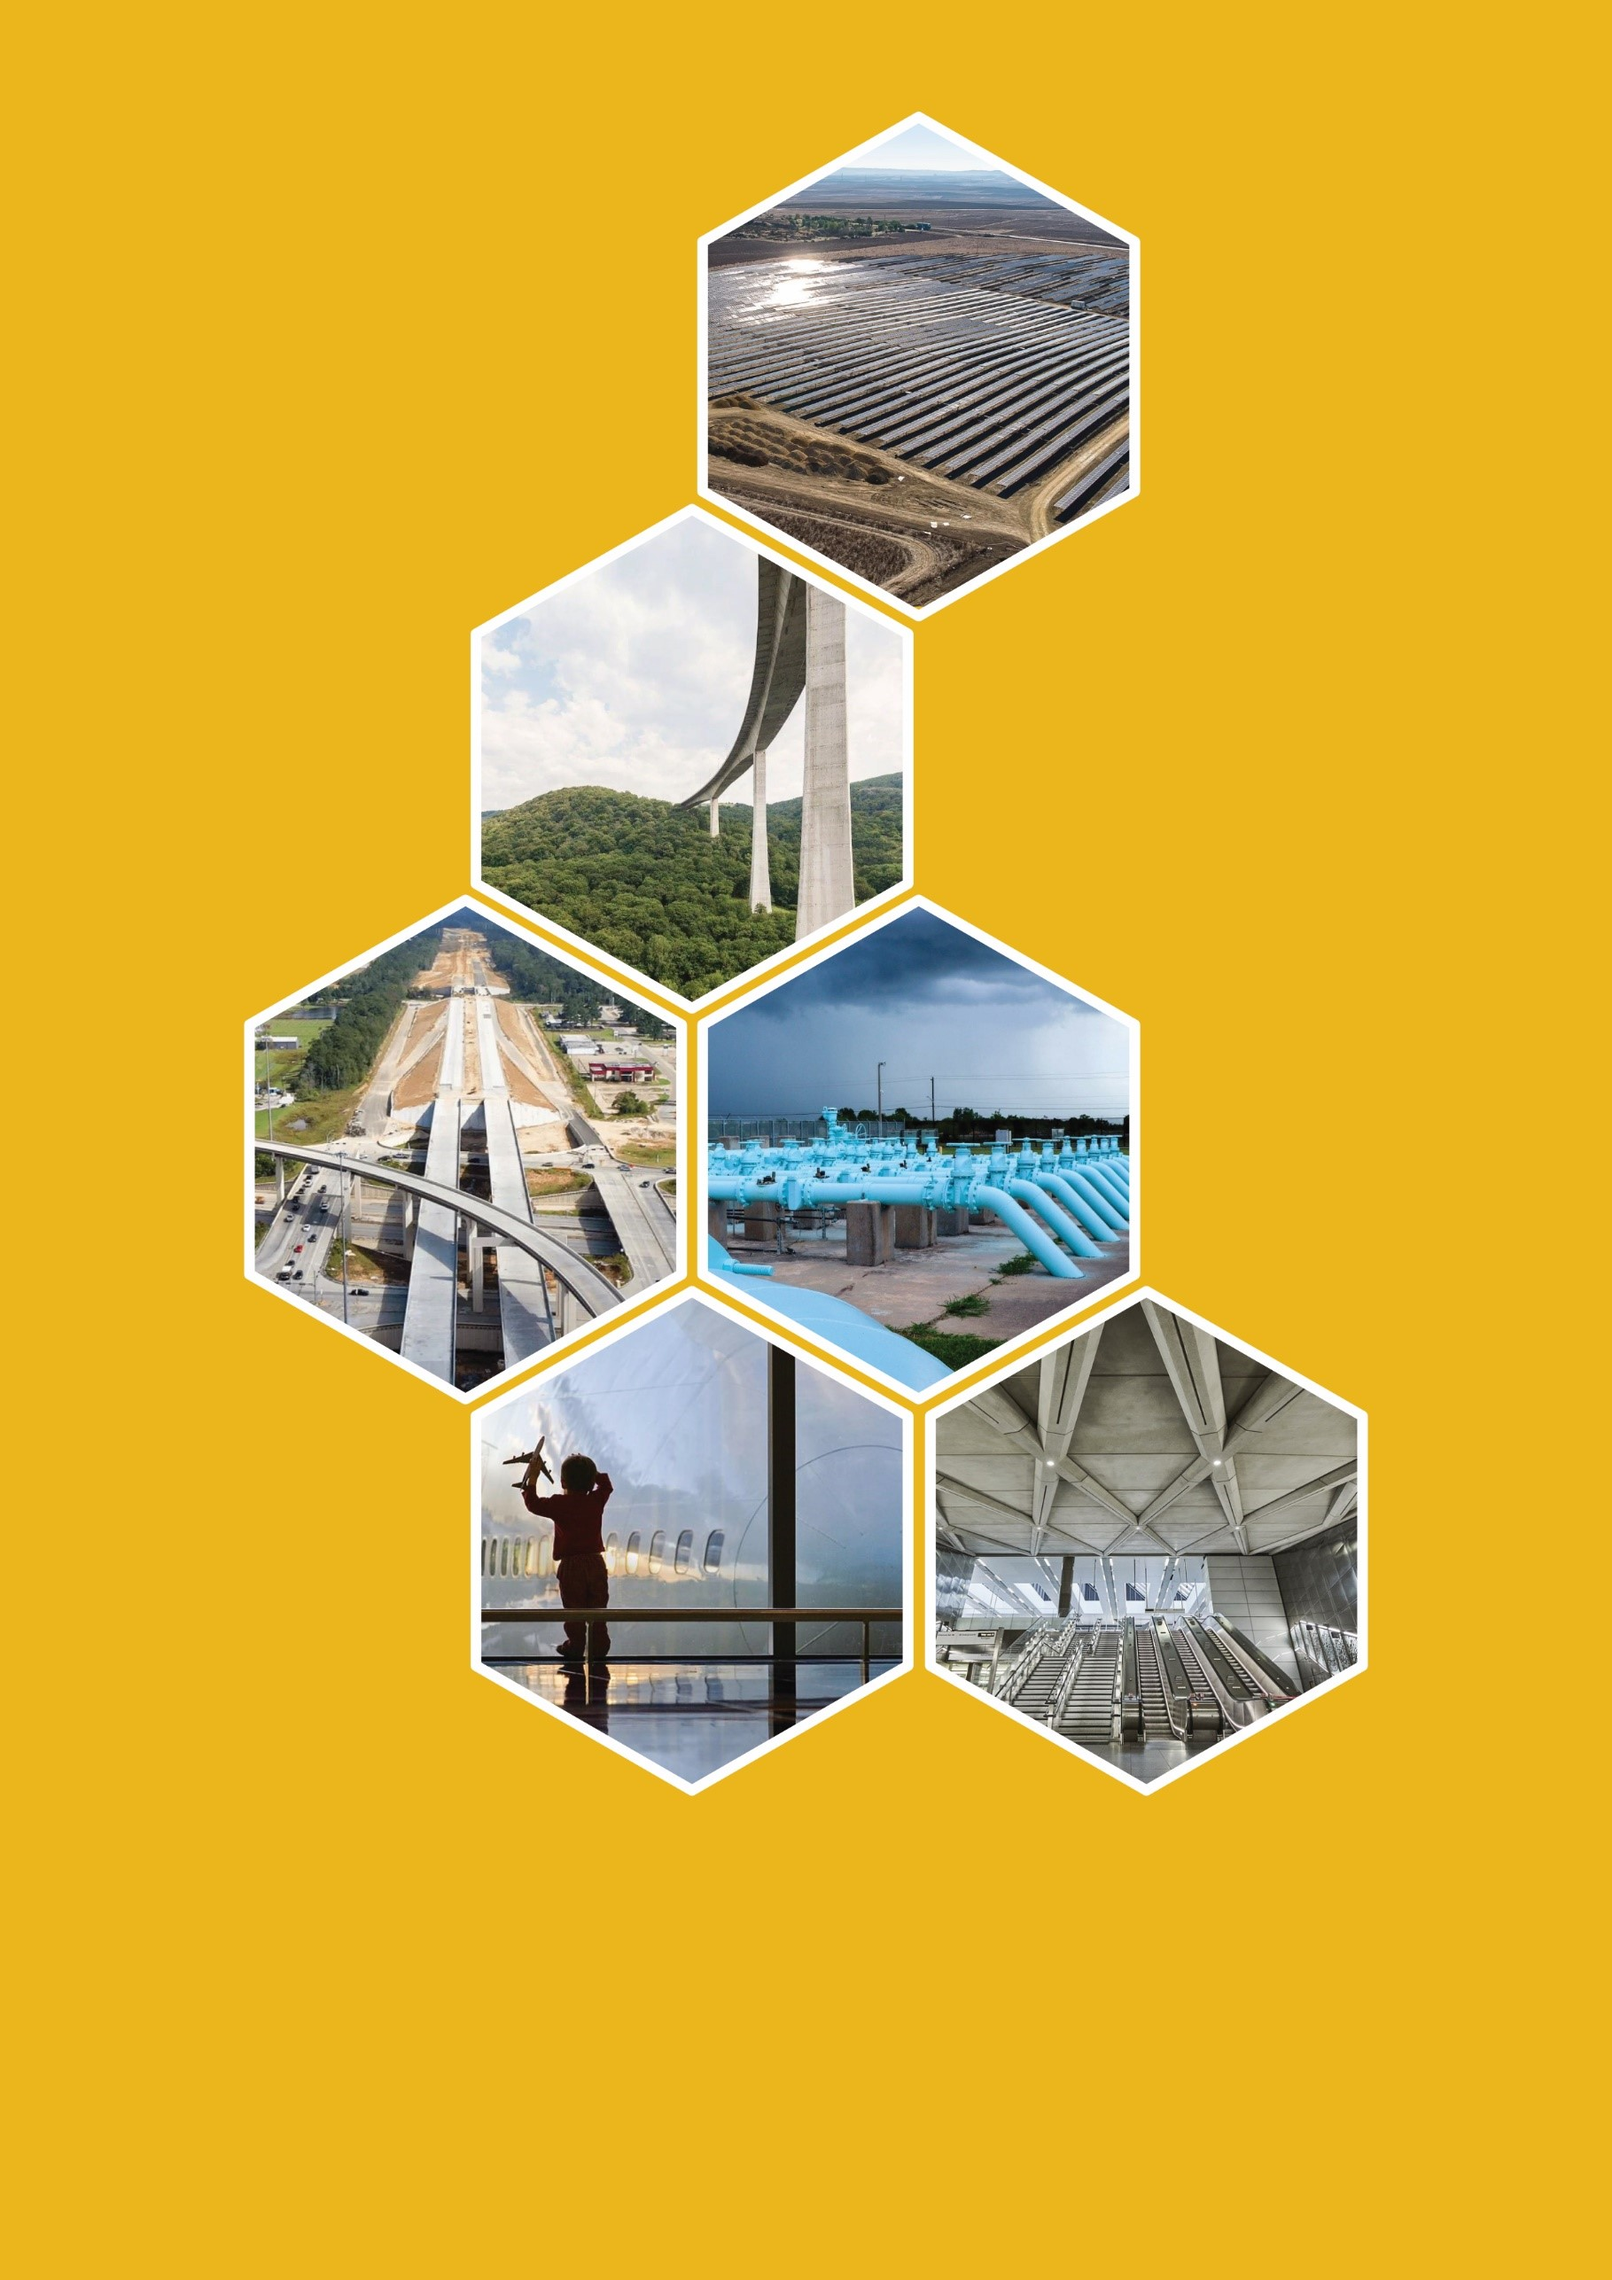
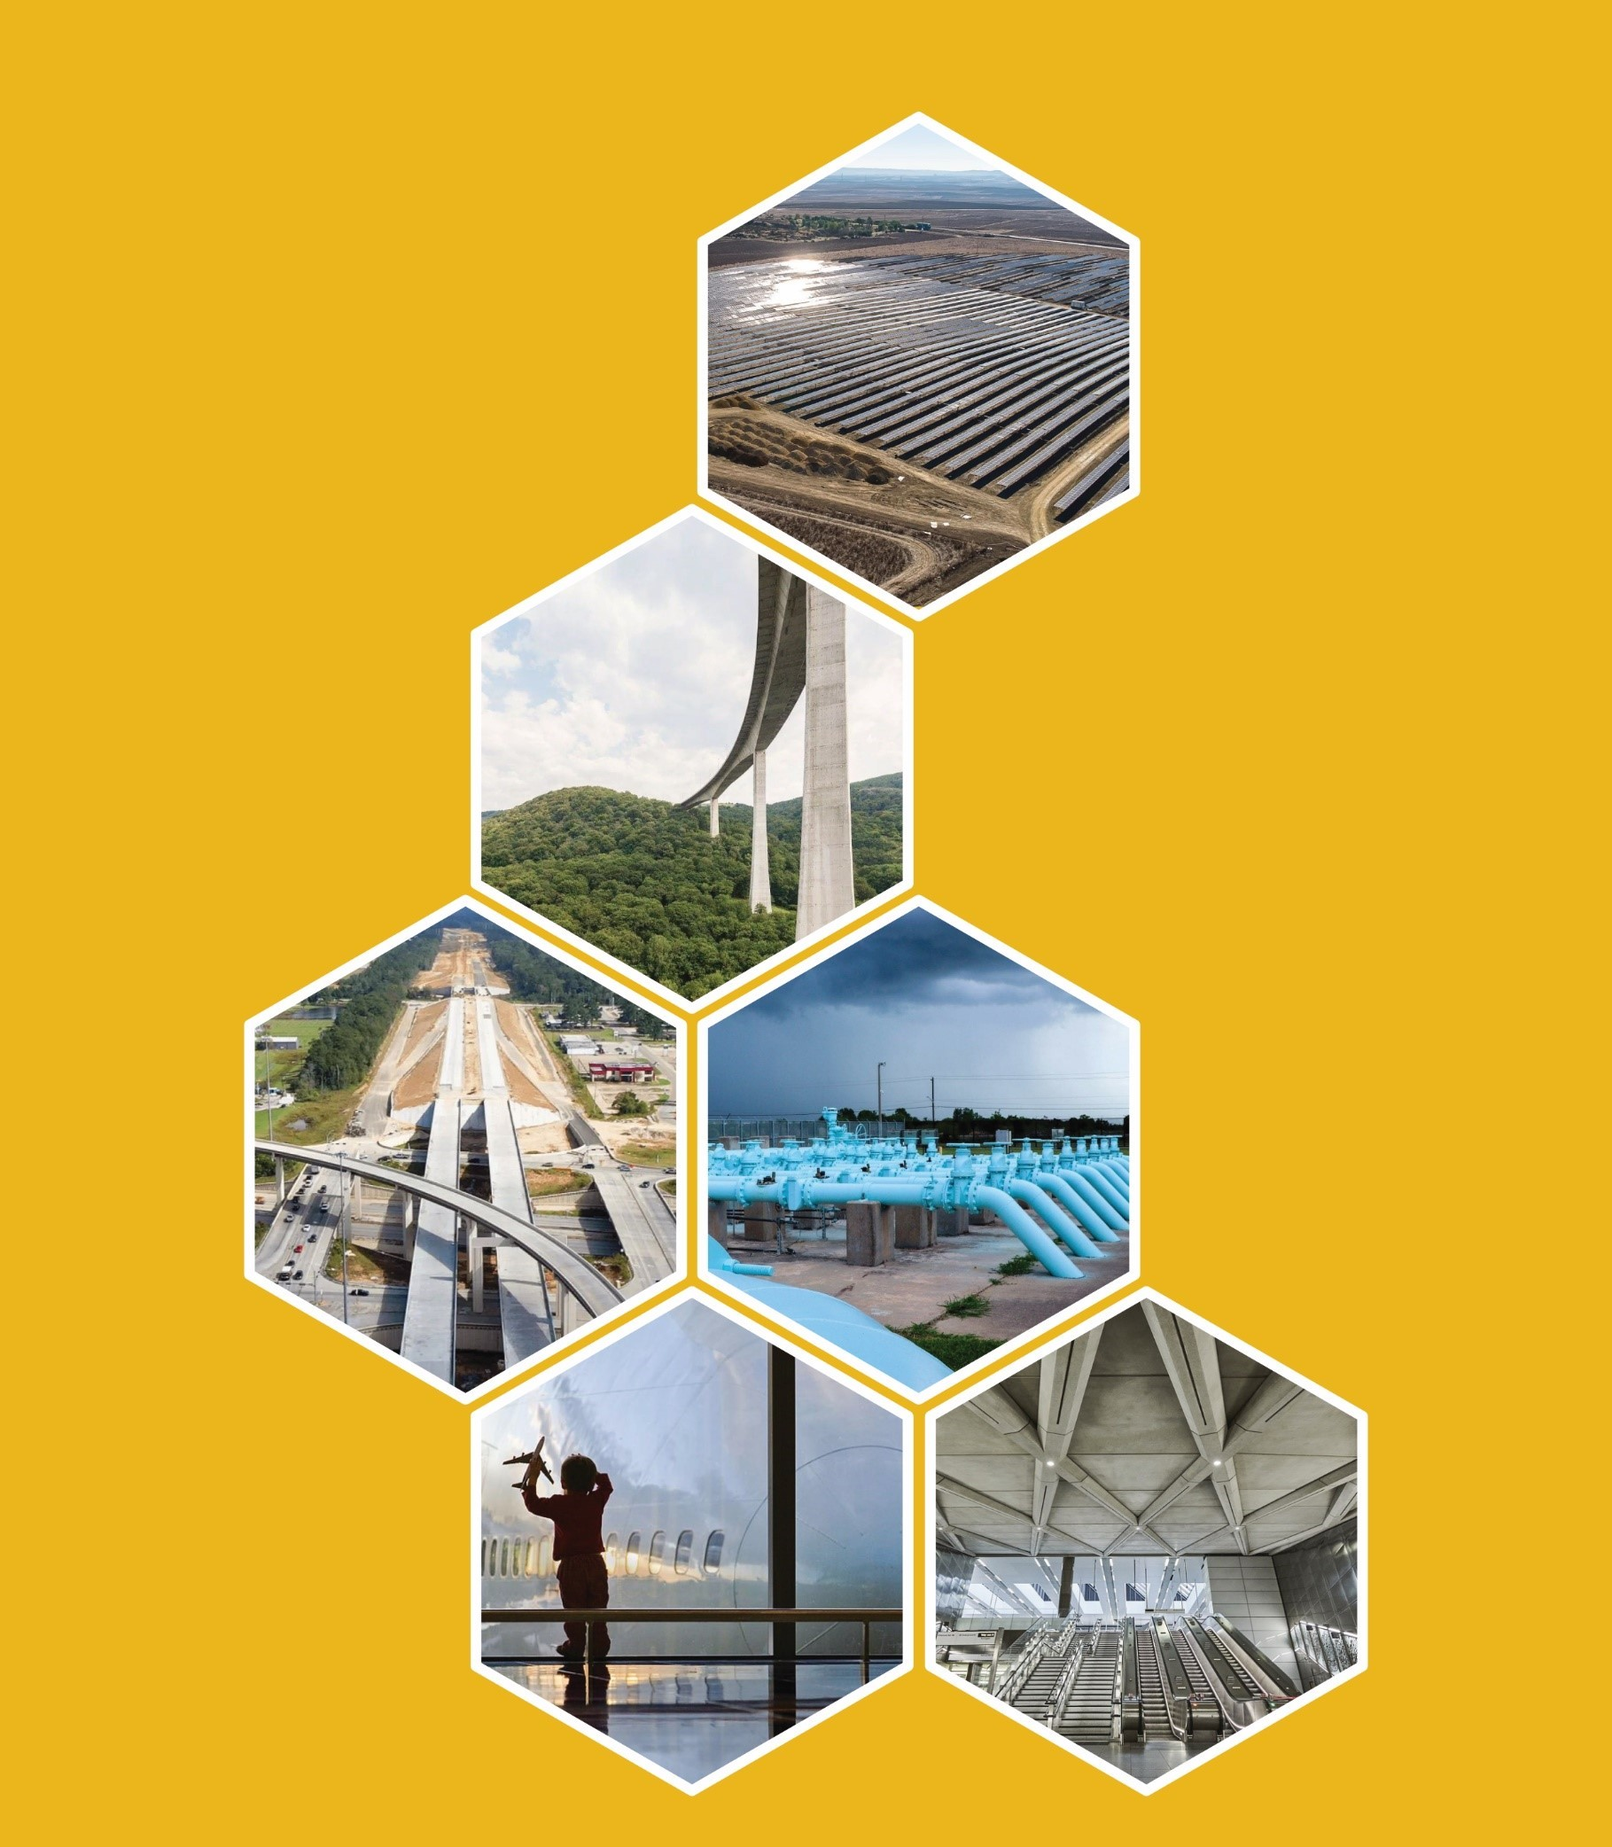
Correcciones de Bárbara (parte 2).
Cambiado imagen de portada. En lugar de crear una segunda imagen, cambio
la existente.
El style.css ya lo dejé como debe estar en el anterior commit.

https://github.com/IHCantabria/Pdf.Microservice/commit/7459a3a301605a5eb321db898ce813b662a9eaac#diff-0a650a4e408de4aa15bb0666234ed0283d317f2ebd57daf6d3691e4b868570e7

diff --git a/templates/ferrovial/index.html b/templates/ferrovial/index.html
@@ -9,9 +9,8 @@
 
 <body>
     <div id="front-page">
-        <!-- <img src="imgs/informe-portada.jpg" alt=""> -->
-
-        <div class="big-title" style="padding-bottom: 5rem">
+        <img src="ferrovial/imgs/informe-portada.jpg" alt="" class="front-page-img">
+        <div class="front-page-big-title">
             <h1>{{ s1["project_name"] }}</h1>
             <p>CLIMATE RISK ASSESSMENT</p>
         </div>
@@ -306,7 +305,7 @@
                     <td class="minor">MINOR</td>
                     <td class="minor">MINOR</td>
                     <td class="minor">MINOR</td>
-                    <td class="minor">MINOR</td>
+                    <td class="null-value">NULL-VALUE</td>
                     <td class="minor">MINOR</td>
                 </tr>
                 <tr>

diff --git a/templates/ferrovial/header.html b/templates/ferrovial/header.html
@@ -10,7 +10,6 @@
 
         <div class="header-logos">
             <img src="ferrovial/imgs/FER-BR-FERROVIAL-MAIN-NEGATIVE-RGB.png" alt="logo ferrovial" class="logos-top" />
-            <!-- <img src="imgs/Logo-IHCantabria.png" alt="logo IH" class="logos-top" /> -->
             <div class="header-big-title">
                 <h1 class="header-title">{{ s1["project_name"] }}</h1>
                 <p class="header-sub-title">Climate Risk Tool <pan class="text-sub">(v. {{ CRT_version }})</pan>
